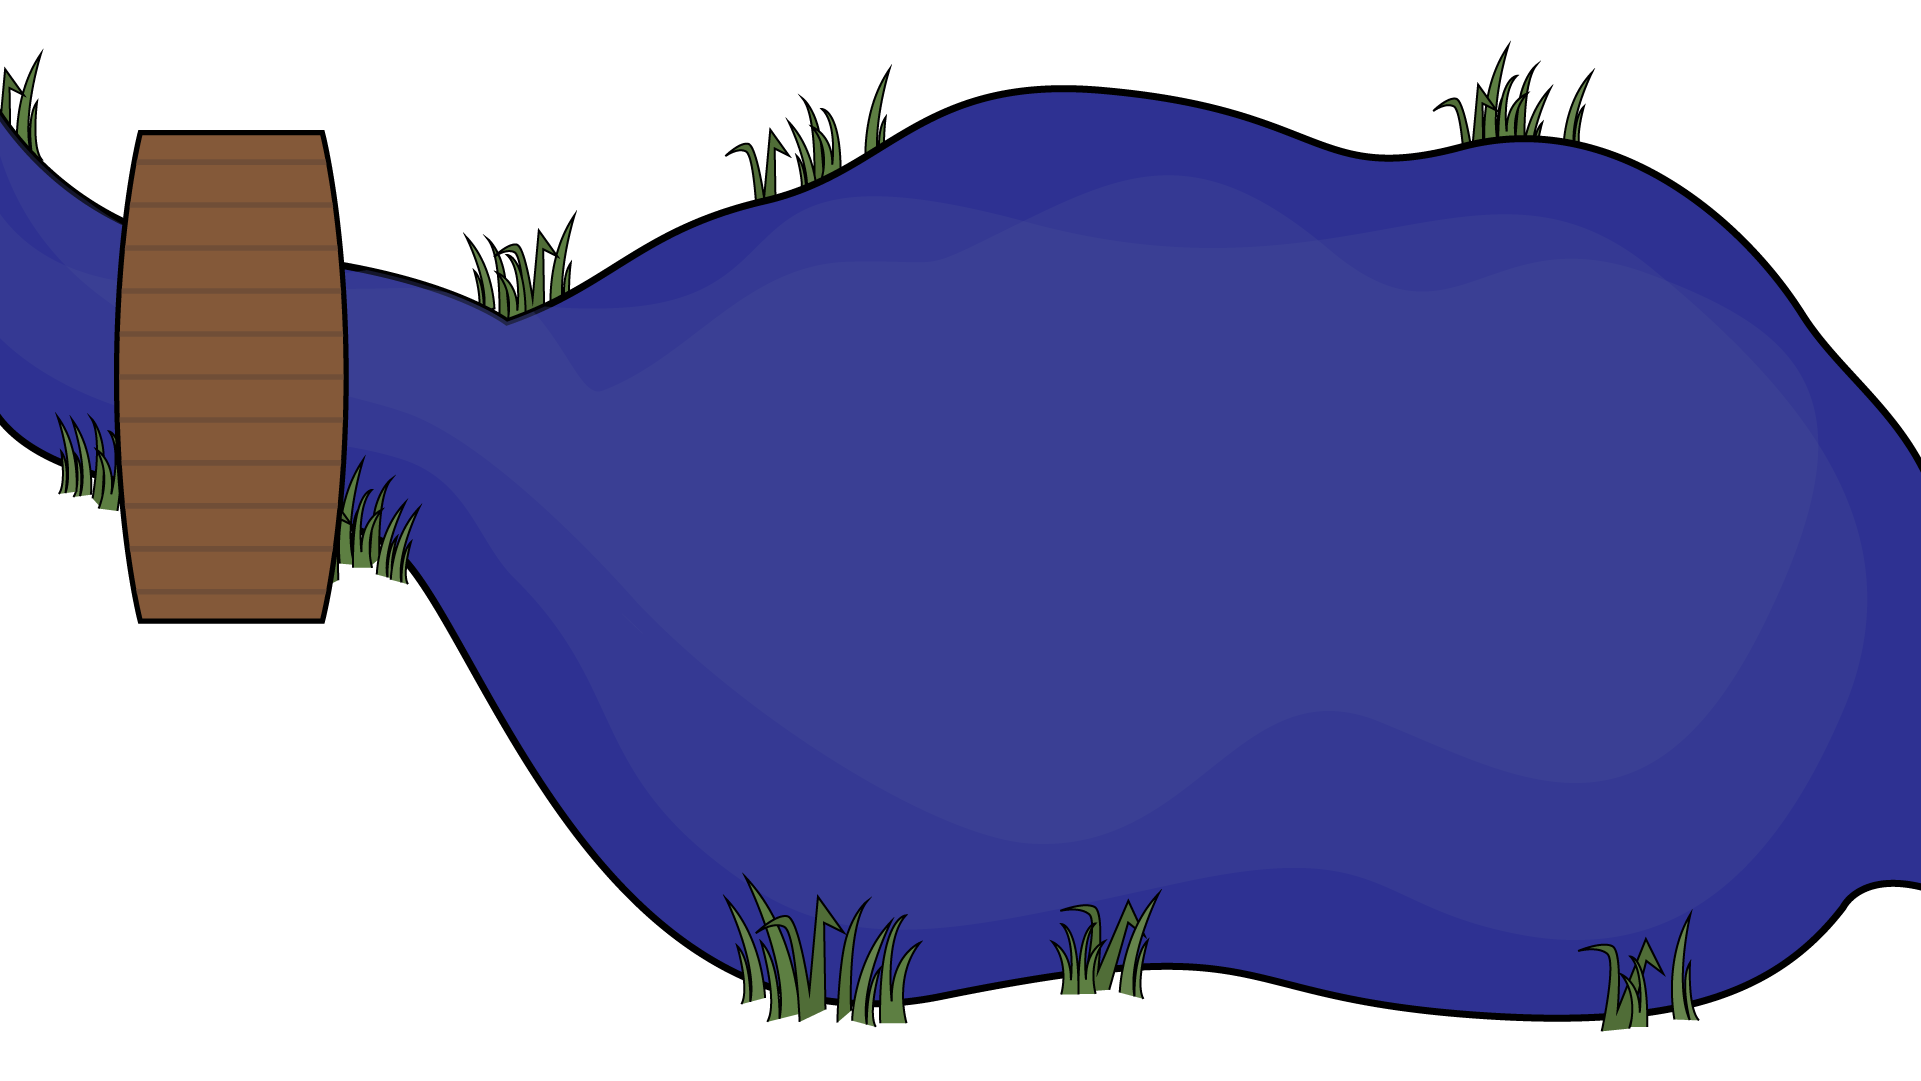
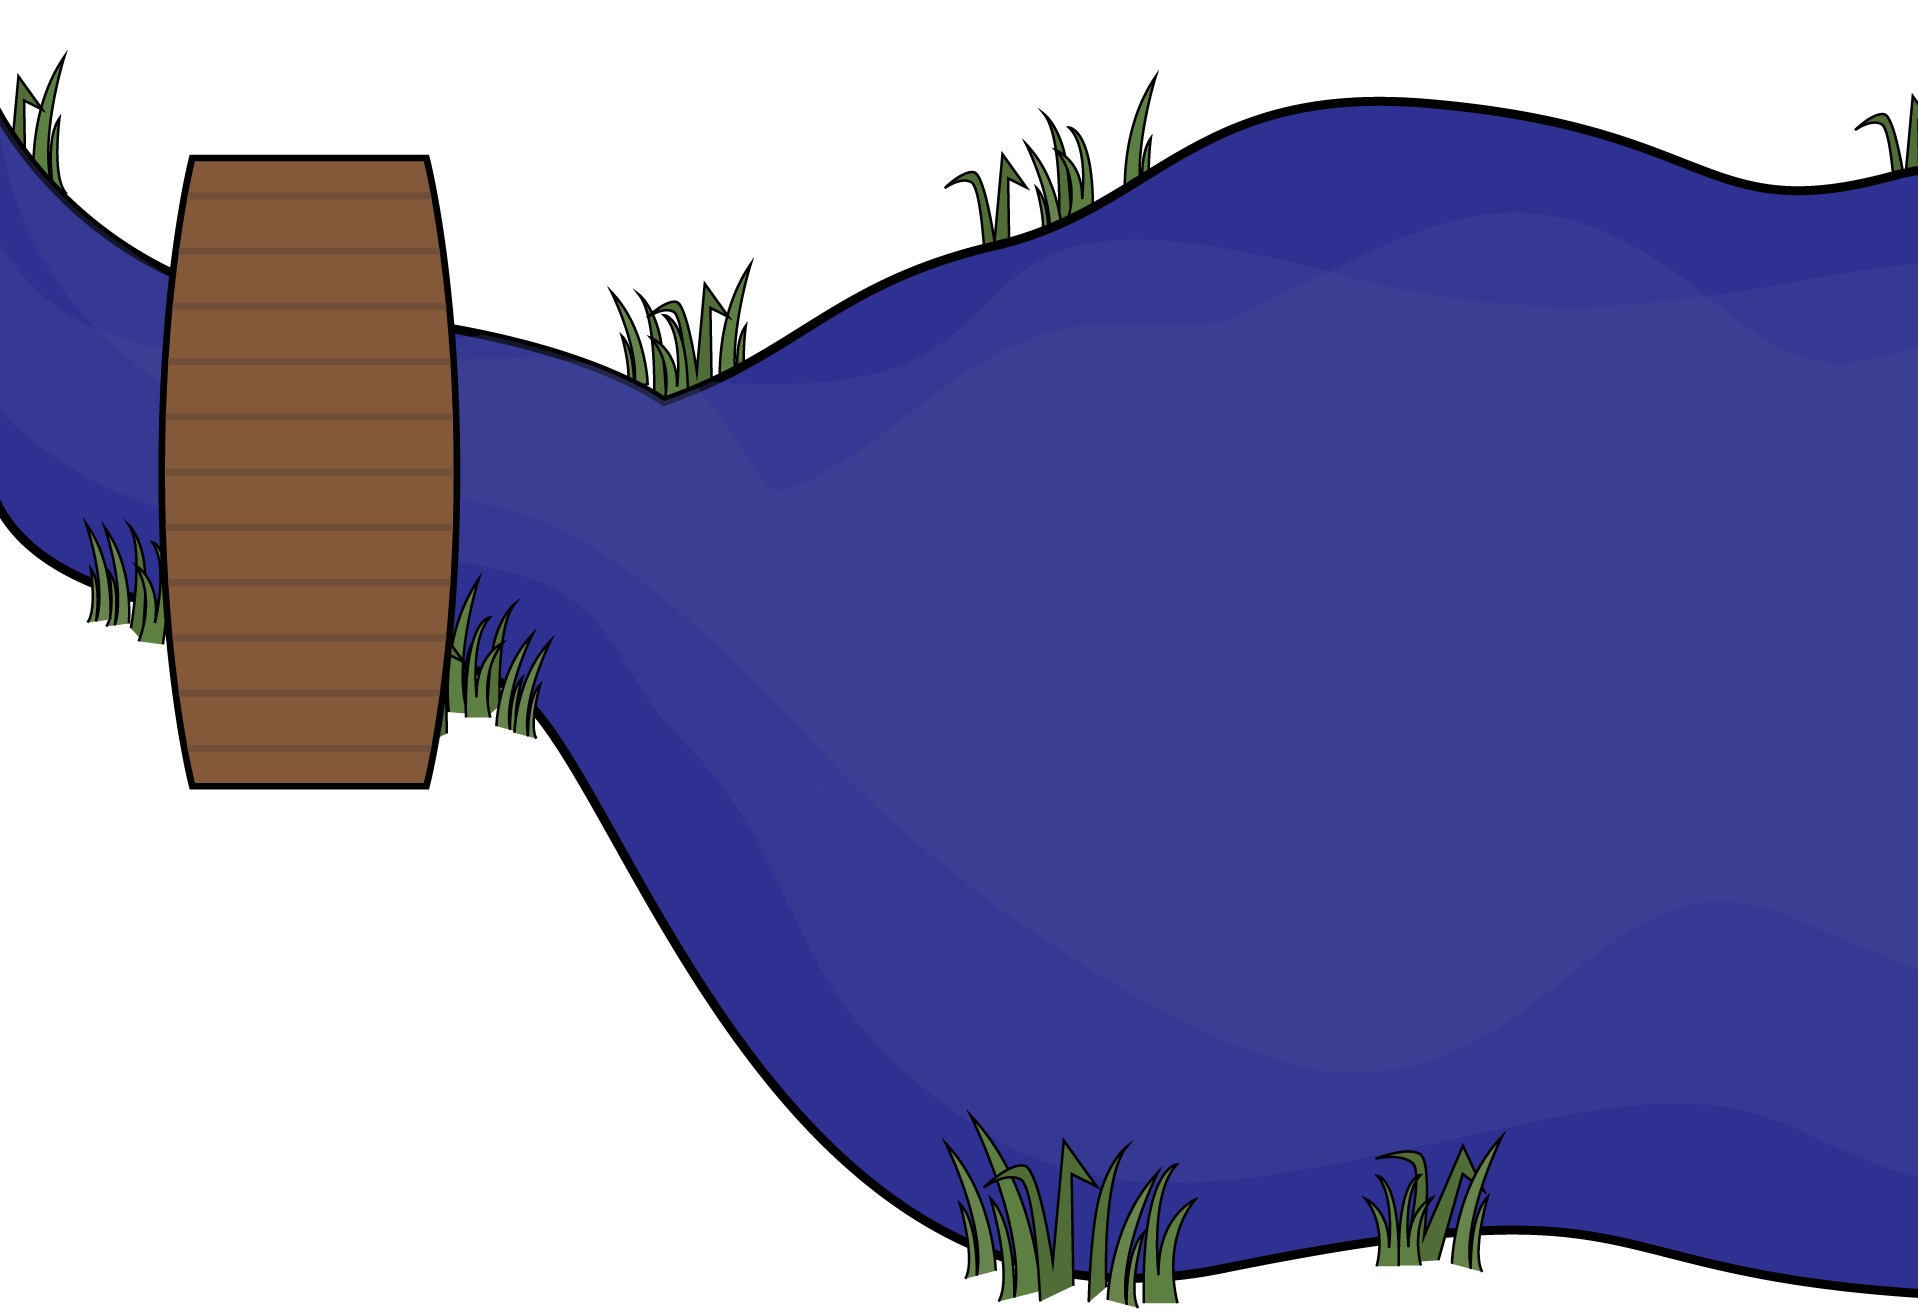
Mobile fixes

Changed region(s): [[0.0, 0.0611, 1.0, 1.0]]

diff --git a/css/app.scss b/css/app.scss
@@ -317,7 +317,7 @@ p,span,textarea,input,label,button,a {
 #road10 {
    position: absolute;
    top: 48.8vw;
-   left: 29.2vw;
+   left: 29.8vw;
    height: 12.8vw;
    z-index: 1;
    user-select: none;
@@ -326,7 +326,7 @@ p,span,textarea,input,label,button,a {
 #road11 {
    position: absolute;
    top: 48.8vw;
-   left: 19vw;
+   left: 22vw;
    height: 12.8vw;
    z-index: 1;
    user-select: none;
@@ -335,7 +335,7 @@ p,span,textarea,input,label,button,a {
 #road12 {
    position: absolute;
    top: 48.89vw;
-   left: 6.3vw;
+   left: 9.4vw;
    height: 12.5vw;
    z-index: 2;
    transform: rotate(90deg);
@@ -359,7 +359,7 @@ p,span,textarea,input,label,button,a {
 #road13 {
    position: absolute;
    top: 61.3vw;
-   left: 6.3vw;
+   left: 9.4vw;
    width: 12.7vw;
    z-index: 2;
    transform: rotate(180deg);
@@ -369,9 +369,8 @@ p,span,textarea,input,label,button,a {
 #lake {
    position: absolute;
    top: 73vw;
-   left: -3.4vw;
    z-index: 2;
-   width: 133%;
+   width: 100%;
    user-select: none;
    -webkit-user-drag: none;
 }
@@ -483,8 +482,8 @@ p,span,textarea,input,label,button,a {
 
 #road14 {
    position: absolute;
-   top: 115vw;
-   left: 6.3vw;
+   top: 113vw;
+   left: 9.4vw;
    width: 12.7vw;
    z-index: 1;
    user-select: none;
@@ -493,7 +492,7 @@ p,span,textarea,input,label,button,a {
 #road15 {
    position: absolute;
    top: 132.5vw;
-   left: 6.3vw;
+   left: 9.4vw;
    width: 12.7vw;
    z-index: 1;
    user-select: none;
@@ -503,7 +502,7 @@ p,span,textarea,input,label,button,a {
 #road16 {
    position: absolute;
    top: 155vw;
-   left: 6.3vw;
+   left: 9.4vw;
    width: 12.8vw;
    z-index: 1;
    user-select: none;
@@ -512,7 +511,7 @@ p,span,textarea,input,label,button,a {
 #road17 {
    position: absolute;
    top: 155vw;
-   left: 19vw;
+   left: 22vw;
    height: 12.8vw;
    z-index: 1;
    user-select: none;

diff --git a/css/app.css b/css/app.css
@@ -263,7 +263,7 @@ p, span, textarea, input, label, button, a {
 #road10 {
   position: absolute;
   top: 48.8vw;
-  left: 29.2vw;
+  left: 29.8vw;
   height: 12.8vw;
   z-index: 1;
   user-select: none;
@@ -272,7 +272,7 @@ p, span, textarea, input, label, button, a {
 #road11 {
   position: absolute;
   top: 48.8vw;
-  left: 19vw;
+  left: 22vw;
   height: 12.8vw;
   z-index: 1;
   user-select: none;
@@ -281,7 +281,7 @@ p, span, textarea, input, label, button, a {
 #road12 {
   position: absolute;
   top: 48.89vw;
-  left: 6.3vw;
+  left: 9.4vw;
   height: 12.5vw;
   z-index: 2;
   transform: rotate(90deg);
@@ -305,7 +305,7 @@ p, span, textarea, input, label, button, a {
 #road13 {
   position: absolute;
   top: 61.3vw;
-  left: 6.3vw;
+  left: 9.4vw;
   width: 12.7vw;
   z-index: 2;
   transform: rotate(180deg);
@@ -315,9 +315,8 @@ p, span, textarea, input, label, button, a {
 #lake {
   position: absolute;
   top: 73vw;
-  left: -3.4vw;
   z-index: 2;
-  width: 133%;
+  width: 100%;
   user-select: none;
   -webkit-user-drag: none; }
 
@@ -396,8 +395,8 @@ p, span, textarea, input, label, button, a {
 
 #road14 {
   position: absolute;
-  top: 115vw;
-  left: 6.3vw;
+  top: 113vw;
+  left: 9.4vw;
   width: 12.7vw;
   z-index: 1;
   user-select: none;
@@ -406,7 +405,7 @@ p, span, textarea, input, label, button, a {
 #road15 {
   position: absolute;
   top: 132.5vw;
-  left: 6.3vw;
+  left: 9.4vw;
   width: 12.7vw;
   z-index: 1;
   user-select: none;
@@ -415,7 +414,7 @@ p, span, textarea, input, label, button, a {
 #road16 {
   position: absolute;
   top: 155vw;
-  left: 6.3vw;
+  left: 9.4vw;
   width: 12.8vw;
   z-index: 1;
   user-select: none;
@@ -424,7 +423,7 @@ p, span, textarea, input, label, button, a {
 #road17 {
   position: absolute;
   top: 155vw;
-  left: 19vw;
+  left: 22vw;
   height: 12.8vw;
   z-index: 1;
   user-select: none;

diff --git a/js/walk.js b/js/walk.js
@@ -66,14 +66,14 @@ window.addEventListener('scroll', () => {
     }
     if(scrollPercent > turn3Percentage && scrollPercent < turn4Percentage){
         topS = 8 * turn3Percentage - turn2Percentage + midConst
-        leftS = -15 * (getScrollPercent() - turn3Percentage) + rightConst
+        leftS = -14 * (getScrollPercent() - turn3Percentage) + rightConst
         sprite.src = "images/spriteLeft.png"
         sprite.style.left = leftS + "vw"
         sprite.style.top = topS + "vw"
     }
     if(scrollPercent > turn4Percentage && scrollPercent < turn5Percentage){
         topS = 8 * getScrollPercent() - turn4Percentage + bridgeConst
-        leftS = -15 * (turn4Percentage - turn3Percentage) + rightConst
+        leftS = -14 * (turn4Percentage - turn3Percentage) + rightConst
         sprite.src = "images/spriteFront.png"
         sprite.style.left = leftS + "vw"
         sprite.style.top = topS + "vw"
